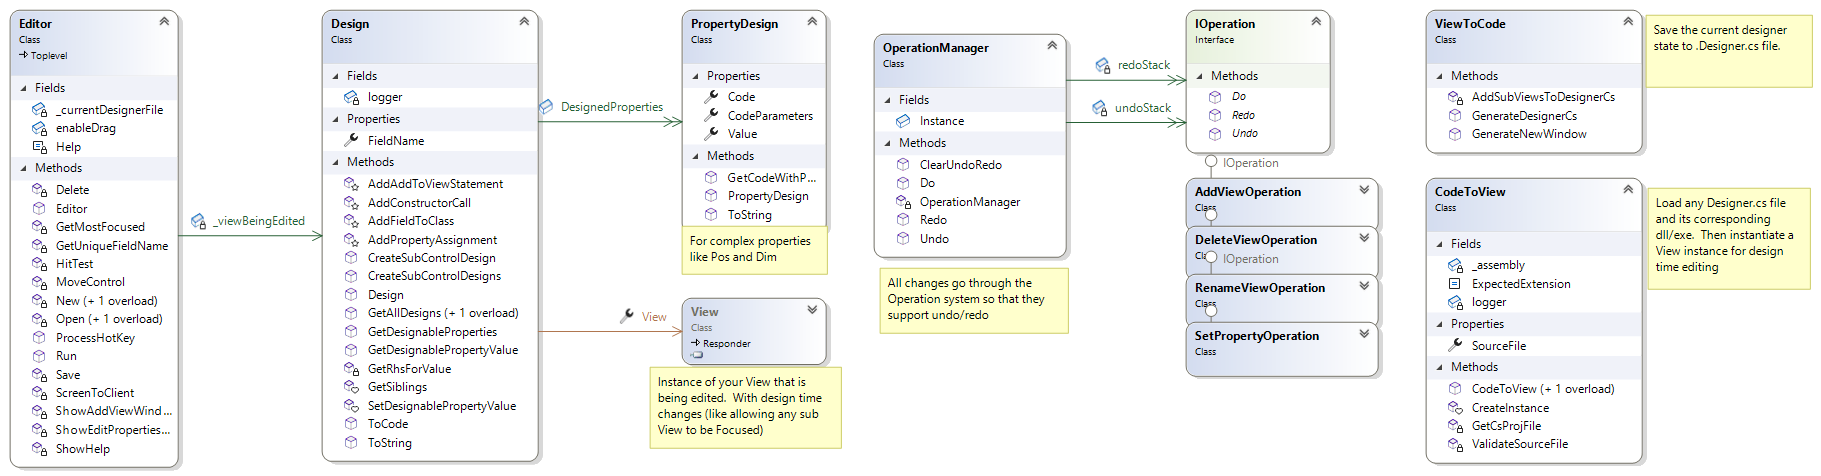
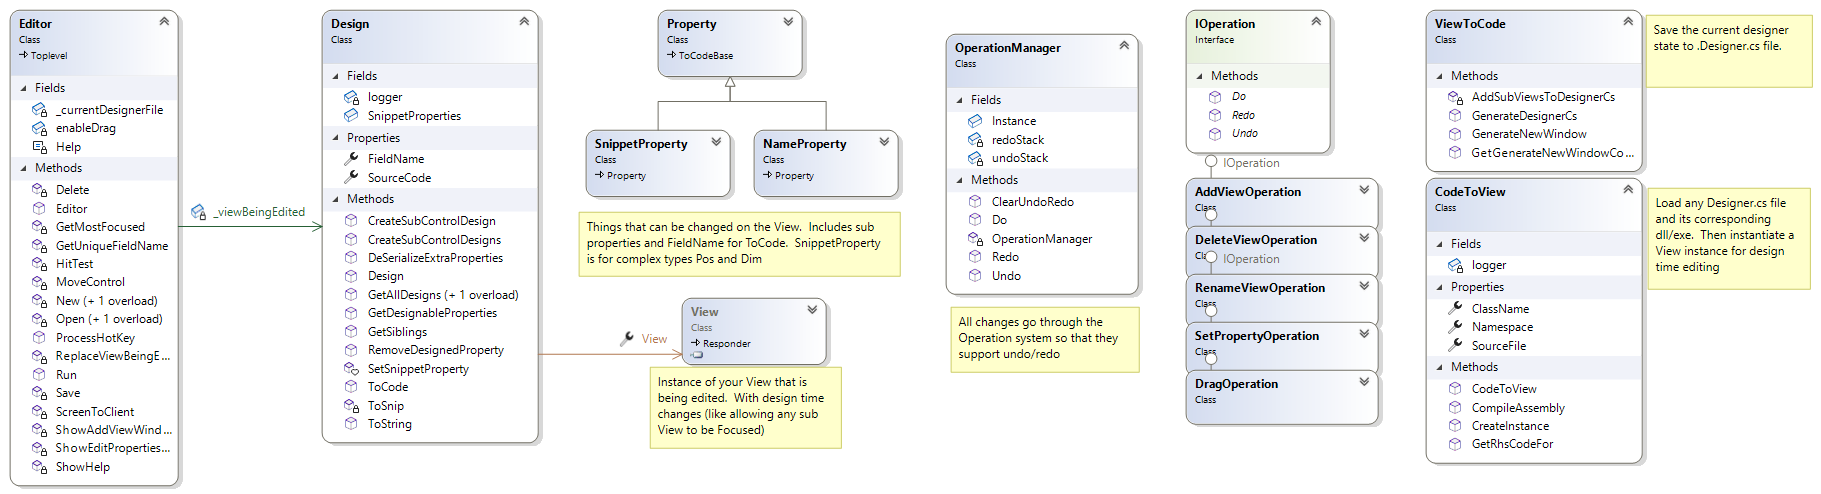
Tidy up and new class diagram

diff --git a/src/ToCode/Property.cs b/src/ToCode/Property.cs
@@ -1,0 +1,75 @@
+using NStack;
+using System.CodeDom;
+using System.Reflection;
+
+namespace TerminalGuiDesigner.ToCode;
+
+public class Property : ToCodeBase
+{
+    public Design Design { get; }
+
+    /// <summary>
+    /// The code that leads to this property from <see cref="Design.View"/> or null
+    /// if <see cref="PropertyInfo"/> is a direct property of the <see cref="Design.View"/>.
+    /// 
+    /// <para>For example "TableStyle" or "Border"</para>
+    /// 
+    /// </summary>
+    public string SubProperty { get; }
+    public object DeclaringObject { get; set; }
+
+    public PropertyInfo PropertyInfo { get; }
+    public Property(Design design, PropertyInfo property)
+    {
+        Design = design;
+        PropertyInfo = property;
+        DeclaringObject = Design.View;
+    }
+    public Property(Design design, PropertyInfo property, string subProperty, object declaringObject) : this(design, property)
+    {
+        SubProperty = subProperty;
+        DeclaringObject = declaringObject;
+    }
+
+    public virtual object GetValue()
+    {
+        return PropertyInfo.GetValue(DeclaringObject);
+    }
+
+    public virtual void SetValue(object value)
+    {
+        // handle type conversions
+        if (PropertyInfo.PropertyType == typeof(ustring))
+        {
+            if (value is string s)
+            {
+                value = ustring.Make(s);
+            }
+        }
+
+        PropertyInfo.SetValue(DeclaringObject, value);
+    }
+
+    public virtual void ToCode(CodeDomArgs args)
+    {
+        AddPropertyAssignment(args, GetLhs(), GetRhs());
+    }
+
+    protected virtual CodeExpression GetRhs()
+    {
+        return new CodePrimitiveExpression(GetValue().ToPrimitive());
+    }
+
+    protected virtual string GetLhs()
+    {
+        // if the property being designed exists on the View directly e.g. MyView.X
+        return string.IsNullOrWhiteSpace(SubProperty) ?
+            $"this.{Design.FieldName}.{PropertyInfo.Name}" :
+            $"this.{Design.FieldName}.{SubProperty}.{PropertyInfo.Name}";
+    }
+
+    public override string ToString()
+    {
+        return PropertyInfo.Name + ":" + GetValue();
+    }
+}

diff --git a/src/ToCode/SnippetProperty.cs b/src/ToCode/SnippetProperty.cs
@@ -1,0 +1,36 @@
+using System.CodeDom;
+using System.Reflection;
+
+namespace TerminalGuiDesigner.ToCode;
+
+public class SnippetProperty : Property
+{
+    public string Code { get; }
+    public object Value { get; private set; }
+    public Func<string>[] CodeParameters { get; }
+
+    public SnippetProperty(Property toWrap, string code, object value, params Func<string>[] codeParameters)
+        : base(toWrap.Design, toWrap.PropertyInfo, toWrap.SubProperty, toWrap.DeclaringObject)
+    {
+        Code = code;
+        Value = value;
+
+        // Using delegates means that rename operations will
+        // not break us
+        CodeParameters = codeParameters;
+    }
+
+    public string GetCodeWithParameters()
+    {
+        return string.Format(Code, CodeParameters.Select(f => f()).ToArray());
+    }
+    public override string ToString()
+    {
+        return $"{PropertyInfo.Name}:{GetCodeWithParameters()}";
+    }
+
+    protected override CodeExpression GetRhs()
+    {
+        return new CodeSnippetExpression(GetCodeWithParameters());
+    }
+}

diff --git a/src/ToCode/NameProperty.cs b/src/ToCode/NameProperty.cs
@@ -1,0 +1,40 @@
+using Terminal.Gui;
+
+namespace TerminalGuiDesigner.ToCode;
+
+public class NameProperty : Property
+{
+    public NameProperty(Design design) : base(design, typeof(Design).GetProperty("FieldName"))
+    {
+
+    }
+
+    public override string ToString()
+    {
+        return $"(Name):{Design.FieldName}";
+    }
+    public override void SetValue(object value)
+    {
+        if (value == null)
+        {
+            throw new ArgumentException("Not Possible", "You cannot set a View (Name) property to null");
+        }
+        else
+        {
+            Design.FieldName = value.ToString();
+        }
+    }
+
+    public override object GetValue()
+    {
+        return Design.FieldName;
+    }
+    protected override string GetLhs()
+    {
+        // Set View.Data to the name of the field so that we can 
+        // determine later on which View instances come from which
+        // Fields in the class
+
+        return $"this.{Design.FieldName}.{nameof(View.Data)}";
+    }
+}

diff --git a/src/MyWindow.Designer.cs b/src/MyWindow.Designer.cs
@@ -18,12 +18,12 @@ namespace YourNamespace {
         
         private void InitializeComponent() {
             this.label1 = new Terminal.Gui.Label();
-            this.label1.Text = "Hello!!!!";
-            this.label1.Width = Dim.Fill(0);
-            this.label1.Height = 1;
-            this.label1.X = 26;
-            this.label1.Y = 10;
             this.label1.Data = "label1";
+            this.label1.Text = "there";
+            this.label1.Width = Dim.Fill(4);
+            this.label1.Height = 1;
+            this.label1.X = 28;
+            this.label1.Y = 12;
             this.Add(this.label1);
         }
     }

diff --git a/src/Design.cs b/src/Design.cs
@@ -9,7 +9,6 @@ using NStack;
 using Terminal.Gui;
 using TerminalGuiDesigner.FromCode;
 using TerminalGuiDesigner.ToCode;
-using TerminalGuiDesigner.UI.Windows;
 using static Terminal.Gui.TableView;
 
 namespace TerminalGuiDesigner;

diff --git a/src/UI/Windows/EditDialog.cs b/src/UI/Windows/EditDialog.cs
@@ -1,6 +1,7 @@
 using System.Reflection;
 using Terminal.Gui;
 using TerminalGuiDesigner.Operations;
+using TerminalGuiDesigner.ToCode;
 
 namespace TerminalGuiDesigner.UI.Windows;
 

diff --git a/src/Operations/SetPropertyOperation.cs b/src/Operations/SetPropertyOperation.cs
@@ -1,6 +1,6 @@
 
 using System.Reflection;
-using TerminalGuiDesigner.UI.Windows;
+using TerminalGuiDesigner.ToCode;
 
 namespace TerminalGuiDesigner.Operations;
 

diff --git a/src/UI/Windows/DimDesigner.cs b/src/UI/Windows/DimDesigner.cs
@@ -1,5 +1,6 @@
 using System.Reflection;
 using Terminal.Gui;
+using TerminalGuiDesigner.ToCode;
 
 namespace TerminalGuiDesigner.UI.Windows;
 

diff --git a/src/UI/Windows/PosDesigner.cs b/src/UI/Windows/PosDesigner.cs
@@ -1,5 +1,6 @@
 using System.Reflection;
 using Terminal.Gui;
+using TerminalGuiDesigner.ToCode;
 
 namespace TerminalGuiDesigner.UI.Windows;
 
